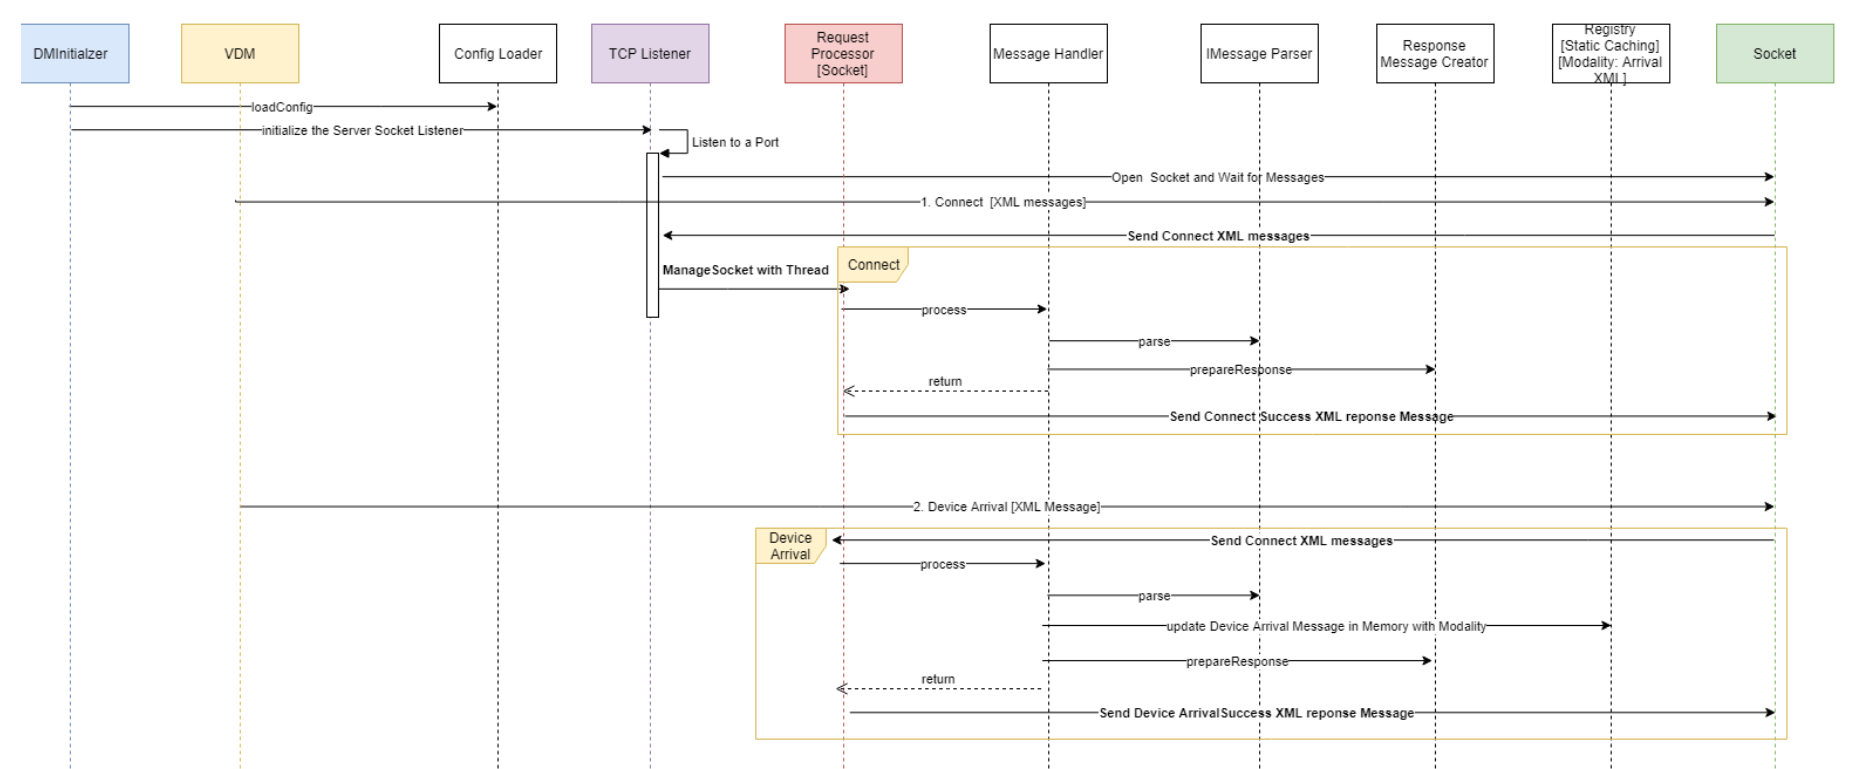
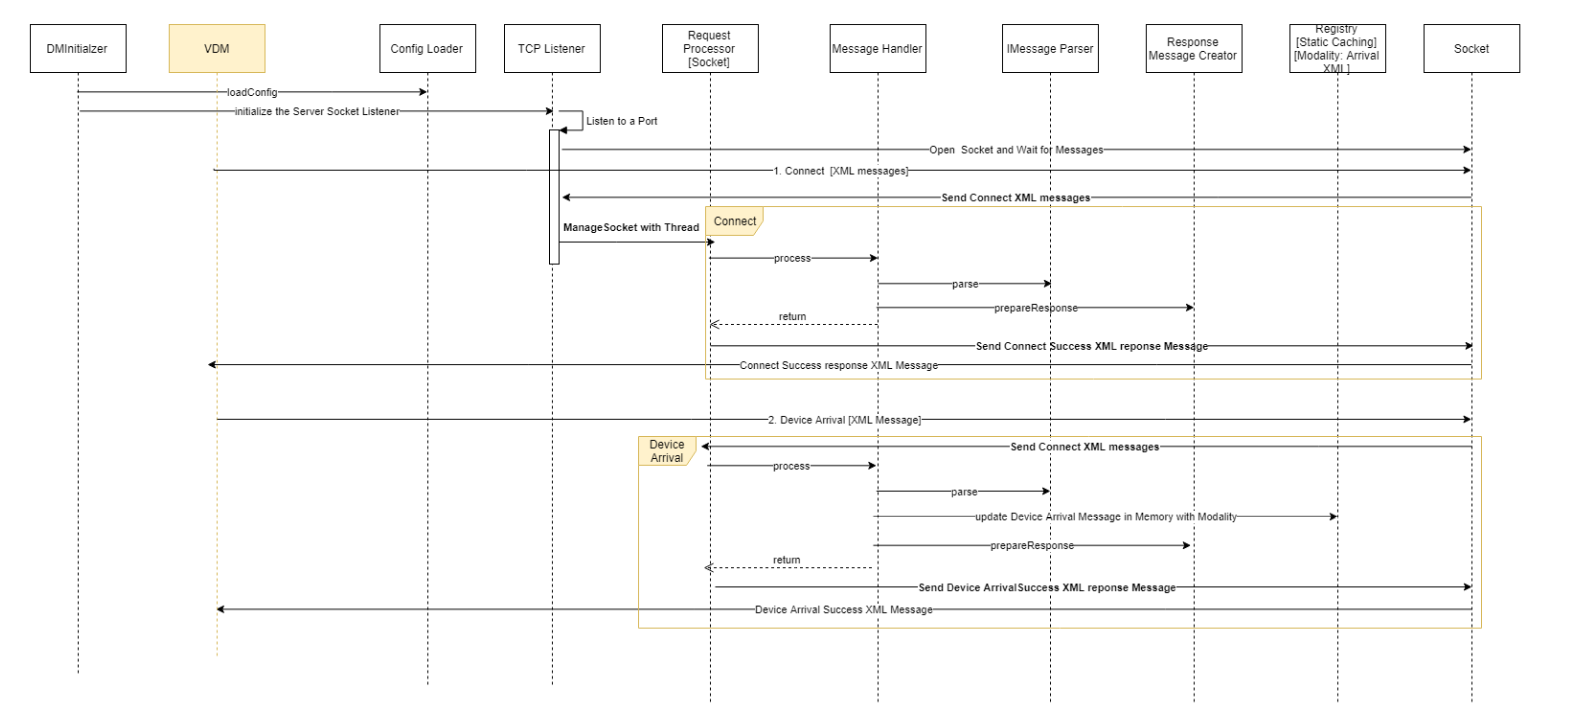
MOS-15307 : DM design updated.
Former-commit-id: b262ab61bc14552303dbc27a0773df5b849fb048

diff --git a/docs/design/registration/registration-bio-device-integration.md b/docs/design/registration/registration-bio-device-integration.md
@@ -36,7 +36,11 @@ The DM service provided by the UID, is responsible for the following:
    - The VDM uses the same Socket for all the underlying devices communication. 
    - The application uses the same Socket for all the communication with DM. 
 
-**Device Arrival Sequence:**  
+
+**Device Arrival Class Diagram:**  
+![Device Arrival Sequence Flow](_images/bio-device-arrival-class-flow.png)  
+
+**Device Arrival Sequence Diagram:**  
 ![Device Arrival Sequence Flow](_images/bio-device-arrival-seq-flow.png)  
 
    
